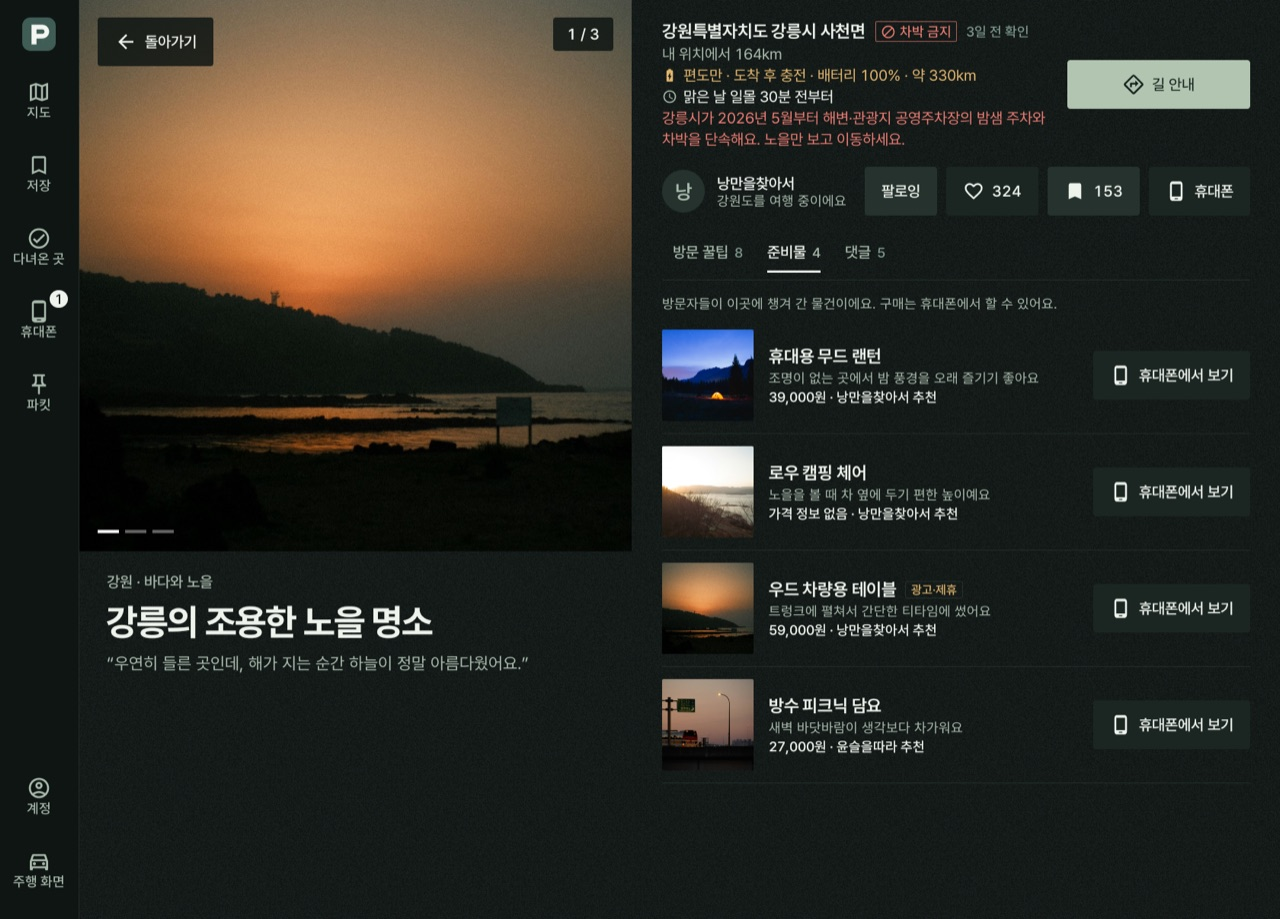
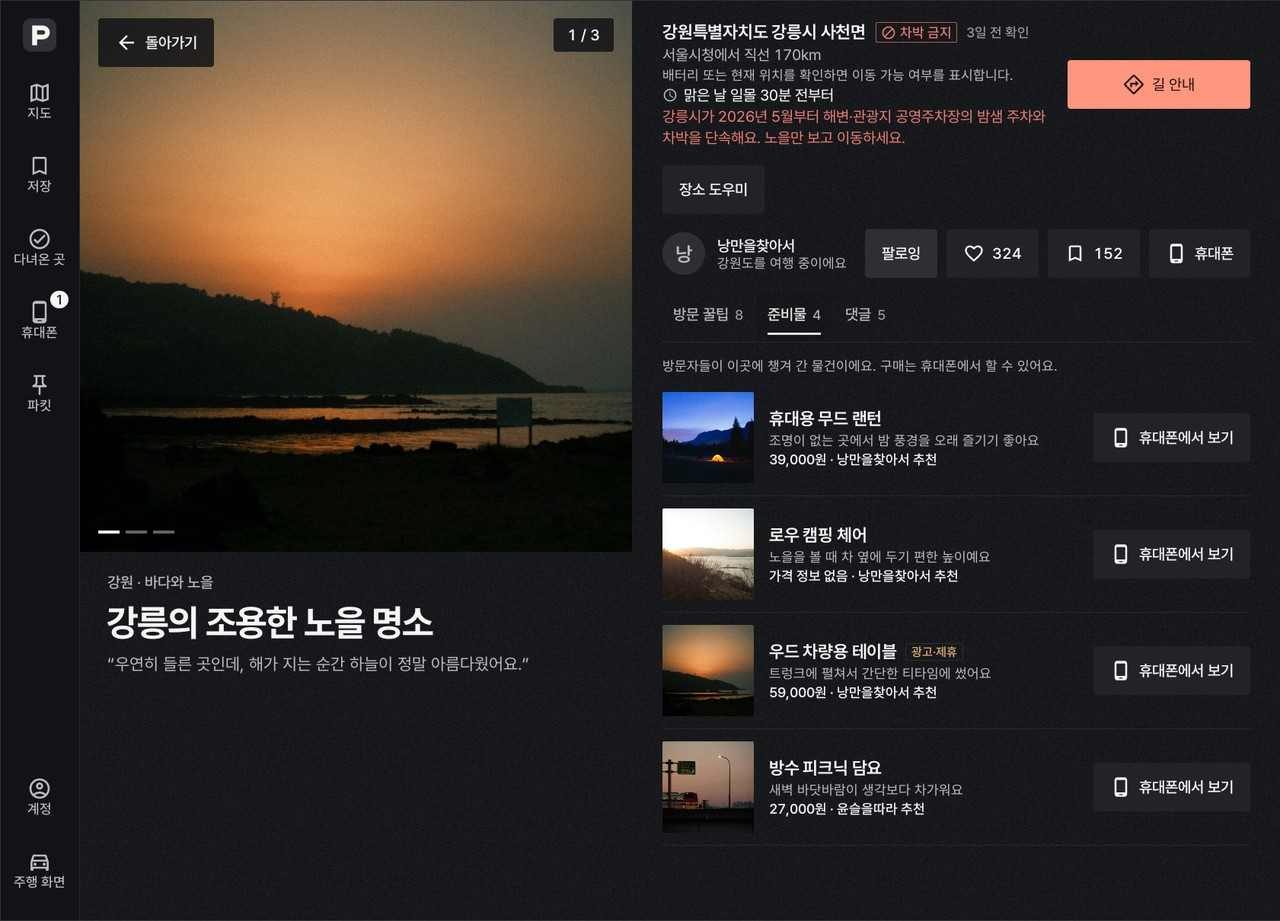
Simplify README and refresh implemented feature screenshots

diff --git a/README.md b/README.md
@@ -1,185 +1,57 @@
-# 현대자동차그룹 차량용 앱 개발 공모전
+# PARK-IT (파킷)
 
-Pleos Connect 차량용 앱을 만들기 위한 팀 저장소입니다. 차박·드라이브 장소를 사진과 꿀팁으로 공유하는 차량 특화 SNS **PARK-IT(파킷)** 을 개발하고 있습니다. 슬로건은 "당신의 경험이 누군가의 목적지가 되는 곳"이며, 코드와 패키지 이름은 개발 초기 가칭인 낭만로드(`com.nangmanroad`)를 그대로 씁니다.
+현대자동차그룹 차량용 앱 개발 공모전 프로젝트. 휴대폰에서 차박·드라이브 장소를 찾고 차량으로 보낸 뒤, 방문한 장소의 사진과 팁을 공유합니다. 차량용 앱은 Pleos Connect에서 실행합니다.
 
-## 화면 업데이트
+## 이번 업데이트
 
-차량 지도 홈은 기존 사진 마커·2열 피드·하단 장소 카드를 그대로 사용합니다. 세이지 그린을 차콜·회색으로 바꾸고, 라이트·다크 모드 모두 코랄 계열로 길 안내와 선택한 장소를 강조했습니다. 이전 차량 캡처는 내장 간략 지도, 최신 캡처는 같은 앱의 네이버 지도 연결 상태입니다.
+- 차량·휴대폰 테마에 차콜과 코랄 적용. 두 앱에서 네이버 도로 지도 표시 확인.
+- 고캠핑 야영장 3곳의 사진 6장, 주차·야간 이용 안내, 출처·조회일 추가.
+- 장소 도우미에서 주차·야간 이용·차박·방문 팁 확인.
+- 같은 목적지의 남은 도로 거리로 배터리 추정 보강.
+- 정차 위치 전송 대기·재시도와 서버 중복 방지. 서버 저장은 SQLite로 이관.
 
-[메인 화면 전후 한 장으로 보기](docs/images/parkit-before-after.jpg) · [계획서 대비 기능 현황과 다음 작업](docs/feature-status.md)
+## 실행 화면
 
-| 이번에 바뀐 요소 | 확인한 내용 | 한 장으로 보기 |
-| --- | --- | --- |
-| 라이트·다크 테마 | 길 안내와 선택한 장소에 코랄 적용 | [배색 전후](docs/images/updates/coral-theme.jpg) |
-| 네이버 지도 실행 | 차량·휴대폰 실제 도로 지도와 사진 마커 표시 | [지도 비교](docs/images/updates/naver-map.jpg) |
-| 공식 장소 사진 | 서울·가평 야영장 3곳에 실제 사진 6장과 주소·출처·조회일 추가 | [난지캠핑장](docs/images/updates/official-camps.jpg) |
-| 장소 도우미 | 두 앱에서 난지캠핑장 주차 답변과 고캠핑 출처 확인 | [도우미 화면](docs/images/updates/place-assistant.jpg) |
-| 경로 기반 배터리 추정 | 같은 목적지의 남은 도로 거리 반영을 구현. 실시간 경로 전환은 시연에서 확인 예정 | [배터리 표시와 계산 조건](docs/images/updates/route-battery.jpg) |
-| 정차 위치 재전송 | 연결 복구 후 다시 보내는 흐름 구현. 서버 중복 방지 테스트 통과 | [파킷 전송 흐름](docs/images/updates/parkit-retry.jpg) |
-| SQLite 저장 | 기존 JSON 이관과 서버 재시작 후 보존 테스트 통과 | [데이터 저장 흐름](docs/images/updates/sqlite-storage.jpg) |
-
-[마지막 장 · 할 일](docs/images/updates/todo.jpg)
+2026-11-12 최신 빌드와 샘플 계정으로 캡처했습니다. 휴대폰 화면은 에뮬레이터의 세로 디스플레이에서 촬영했습니다.
 
 ### 차량용 앱
 
-Pleos Connect Emulator 2.1.0에서 실행한 화면입니다. 사진 마커를 고르면 하단 카드에서 장소와 이동 조건을 확인하고 길 안내를 열 수 있습니다.
+<img src="docs/images/car-naver-dark.png" alt="Pleos 차량용 파킷 지도 홈" width="100%">
 
-<img src="docs/images/car-naver-dark.png" alt="차량 다크 모드에서 네이버 도로 지도와 파킷 사진 그리드가 열린 화면" width="100%">
+[라이트 모드](docs/images/car-naver-light.png) · [난지캠핑장 공식 사진과 정보](docs/images/car-official-place.png) · [장소 도우미](docs/images/car-place-assistant.png)
 
-[라이트 모드](docs/images/car-naver-light.png) · [장소 상세](docs/images/car-naver-detail.png) · [난지캠핑장 공식 사진과 정보](docs/images/car-official-place.png) · [장소 도우미](docs/images/car-place-assistant.png)
+<details>
+<summary>차량 기능별 화면</summary>
+
+| 탐색·방문 | 계정·주행 |
+| --- | --- |
+| [지도 홈과 지역 피드](docs/images/car-map.jpg) | [휴대폰에서 보낸 장소](docs/images/car-from-phone.jpg) |
+| [장소 상세와 방문 꿀팁](docs/images/car-detail-tips.jpg) | [6자리 연결 코드](docs/images/car-pairing.jpg) |
+| [준비물](docs/images/car-detail-items.jpg) | [연결된 계정과 음성 안내 설정](docs/images/car-account.jpg) |
+| [저장한 장소와 일몰 안내](docs/images/car-album.jpg) | [주행 화면 미리보기](docs/images/car-driving.jpg) |
+| [다녀온 곳](docs/images/car-visited.jpg) | |
+
+</details>
 
 ### 휴대폰 앱
 
-최신 휴대폰 APK를 세로 에뮬레이터 화면에서 실행했습니다. **가까운 곳**에서 난지캠핑장 사진을 보고, 장소 상세에서 **차량으로 보내기**와 **장소 도우미**를 열 수 있습니다. 도우미는 주차 안내와 출처를 보여 줍니다.
+| 홈 | 지도 | 장소 상세 | 장소 도우미 |
+| --- | --- | --- | --- |
+| ![휴대폰 홈과 추천 피드](docs/images/phone-home.jpg) | ![네이버 지도와 사진 마커](docs/images/phone-map.jpg) | ![장소 상세와 차량으로 보내기](docs/images/phone-current-detail.jpg) | ![난지캠핑장 주차 답변](docs/images/phone-current-assistant.jpg) |
 
-<table>
-  <tr>
-    <td width="25%"><img src="docs/images/phone-current-home.jpg" alt="휴대폰 홈의 가까운 곳 탭에 표시된 난지캠핑장 사진"></td>
-    <td width="25%"><img src="docs/images/phone-current-map.jpg" alt="휴대폰 다크 모드의 네이버 지도와 사진 마커"></td>
-    <td width="25%"><img src="docs/images/phone-current-detail.jpg" alt="난지캠핑장 상세의 사진과 차량으로 보내기 버튼"></td>
-    <td width="25%"><img src="docs/images/phone-current-assistant.jpg" alt="휴대폰 장소 도우미의 난지캠핑장 주차 답변과 고캠핑 출처"></td>
-  </tr>
-  <tr>
-    <td><b>홈</b> · 가까운 곳</td>
-    <td><b>지도</b> · 사진 마커</td>
-    <td><b>장소 상세</b> · 차량으로 보내기</td>
-    <td><b>장소 도우미</b> · 주차 안내</td>
-  </tr>
-</table>
+<details>
+<summary>휴대폰 기능별 화면</summary>
 
-[앱 사용 순서와 시연 영상 체크리스트](docs/demo.md)
-
-
-## 현재 구현된 기능
-
-| 기능 | 현재 동작 |
+| 장소 탐색·공유 | 계정·차량 |
 | --- | --- |
-| 지도에서 장소 찾기 | 차량·휴대폰에서 사진 마커와 장소 상세를 볼 수 있습니다. 차량은 장소명·지역·작성자 검색을, 휴대폰은 시설 필터를 지원합니다. 네이버 지도 Client ID가 설정된 빌드는 실제 도로 지도를 사용합니다. |
-| 방문 정보 | 차박 가능·금지·현장 확인 상태와 방문자 꿀팁을 표시합니다. 공식 야영장 상세에 고캠핑 사진과 출처를 함께 표시합니다. 확인한 지 90일을 넘긴 차박 정보에는 오래된 정보 표시를 붙입니다. |
-| 장소 도우미 | 휴대폰과 정차 중 차량의 장소 상세에서 주차·야간 이용·차박·방문 팁을 확인합니다. 차량에서는 배터리와 도착 시간도 확인할 수 있습니다. 답변은 장소 안내, 방문자 제보, 차량에서 받은 데이터로 만듭니다. |
-| 차량 연동 | Vehicle SDK의 기어·배터리 정보로 주행 화면을 전환하고 왕복 가능 여부를 추정합니다. NaviHelper로 목적지를 보내고 남은 거리·시간을 받습니다. 음성 서비스가 연결되면 음성 검색과 도착 전 안내를 이용할 수 있습니다. |
-| 파킷과 기기 간 전송 | 6자리 코드로 휴대폰과 차량을 연결합니다. 휴대폰에서 차량으로 장소를 보내거나, 정차 후 “여기, 파킷할까요?”에서 위치와 메모를 휴대폰으로 보내 장소 글을 작성할 수 있습니다. |
-| 데이터 저장 | 개발용 동기화 서버는 계정·게시물·제보·전송 목록을 SQLite의 스냅샷으로 저장합니다. 업로드 사진은 기존 폴더에 둡니다. 휴대폰의 원격 차량 제어 화면은 데모입니다. |
+| [가까운 곳](docs/images/phone-current-home.jpg) | [로그인](docs/images/phone-signin.jpg) |
+| [사진 상세와 방문 기록](docs/images/phone-detail.jpg) | [차량 연결·제어 데모](docs/images/phone-car.jpg) |
+| [방문 꿀팁](docs/images/phone-tips.jpg) | [프로필과 내 장소 지도](docs/images/phone-profile.jpg) |
+| [장소 공유 · 사진 선택](docs/images/phone-share-photo.jpg) | [차량에서 보낸 항목과 알림](docs/images/phone-notifications.jpg) |
+| [장소 공유 · 위치와 공개 범위](docs/images/phone-share-place.jpg) | |
 
-## 팀 기준 버전과 비교
+</details>
 
-앱 변경 전 `e218ee9`와 변경 후 `d3b4f0e`를 비교합니다. 신청서의 사진 지도, 지역 피드, 휴대폰과 차량의 연동 흐름을 그대로 바탕으로 삼았습니다.
-
-| 영역 | 변경 전 · `e218ee9` | 변경 후 · `d3b4f0e` |
-| --- | --- | --- |
-| 화면 | Sage Moon 배색, 사진 지도와 2열 사진 피드 | 차콜·회색과 코랄 배색. 사진 그리드, 하단 카드, “여기, 파킷할까요?” 문구 유지 |
-| 지도 | 네이버 지도 SDK 연동과 키가 없을 때의 간략 지도 | 로컬 설정에서 네이버 지도를 연결해 Pleos 실행 화면에 반영 |
-| 장소 정보 | 샘플 장소와 사용자가 올린 게시물, 방문자 제보 | 고캠핑 출처가 있는 서울·가평 야영장 3곳, 해당 장소 사진, 공식 안내 영역 추가 |
-| 배터리 | 직선거리를 보정해 왕복을 추정. 주행 화면에는 도착 예상 배터리 표시 | 같은 목적지의 남은 도로 경로를 받으면 차량 상세에 반영. 일부 시연 지역의 충전소 후보를 정차 중 상세에서 표시 |
-| 서버 | 변경할 때마다 `state.json` 저장 | 첫 실행에 기존 JSON을 읽고 SQLite에 이관. 사진 폴더와 기존 JSON은 보관 |
-| 정차 위치 | 위치·메모 전송, 휴대폰에서 초안 열기 | 계정별 기기 내 대기 목록, 연결 복구 후 재전송, 서버 중복 방지, 대략적 위치 설정 전달 |
-
-## 다음 검증과 확장
-
-**휴대폰에서 고른 장소를 차량에서 안내하고, 정차 위치를 다시 휴대폰에서 초안으로 여는 흐름**을 한 번에 시연하는 것이 목표입니다. 휴대폰 GPS 주변 검색, 수신·길 안내 상태 표시, 쉬어가기와 같은 계획은 [기능 현황과 시연 계획](docs/feature-status.md)에 이어서 정리했습니다.
-
-| 순서 | 할 일 | 완료 기준 |
-| --- | --- | --- |
-| 1 | **차량·휴대폰 연속 시연.** 같은 계정으로 연결하고 장소를 차량으로 보냅니다. Pleos Virtual Console에서 배터리와 기어를 바꿉니다. | 배터리 조건에 따라 안내가 바뀌고, 주행 화면에는 목적지와 남은 거리·시간, 도착 전 정보가 표시됩니다. |
-| 2 | **전송 복구 시연.** 정차 상태에서 서버 연결을 끊고 파킷을 보낸 뒤 재연결합니다. | 휴대폰에 한 건만 도착하고, 초안에 메모와 위치 공개 설정이 유지됩니다. |
-| 3 | **데이터 범위 확대.** 운영기관 안내로 야간 이용과 차량 진입 조건을 갱신하고, 충전소 조회 API 연동을 검토합니다. | 공식 안내와 제보의 출처를 구분할 수 있고, 실제 운영 상태를 확인한 시각이 표시됩니다. 충전소 경유지 자동 추가는 NaviHelper와 대상 차량에서 별도로 검증합니다. |
-
-데이터 후보는 [한국관광공사 고캠핑 정보](https://www.data.go.kr/data/15101933/openapi.do)와 [한국환경공단 전기자동차 충전소 정보](https://www.data.go.kr/data/15076352/openapi.do)입니다. 차량 기능은 [Vehicle SDK](https://document.pleos.ai/docs/pleos-only/connect-sdk-pleos/Vehicle/intro)와 [NaviHelper SDK](https://document.pleos.ai/en/docs/pleos-only/connect-sdk-pleos/NaviHelper/intro)의 지원 범위를 확인하고, [Pleos Virtual Console](https://document.pleos.ai/en/docs/connect/guide/getting-started/application-development/use-vehicle-emulator)에서 기어와 배터리 조건을 바꿔 검증합니다.
-
-## 휴대폰과 차량 사용 흐름
-
-| 언제 | 화면에서 할 일 | 사용성 확인 기준 |
-| --- | --- | --- |
-| 출발 전 휴대폰 | 사진으로 장소를 고르고, 주차·야간 이용·차박 상태를 확인한 뒤 ‘차량으로 보내기’를 누릅니다. | 사진을 본 뒤 실제 방문 조건과 전송 버튼을 찾을 수 있는지 확인합니다. |
-| 정차 중 차량 | ‘휴대폰에서 보냄’에서 같은 장소를 고르고, 배터리 판정과 확인이 필요한 조건을 본 뒤 ‘길 안내’를 누릅니다. | 장소명을 다시 입력하지 않고 목적지를 찾는지, 추정치와 실제 경로를 구분하는지 봅니다. |
-| 주행 중 차량 | 남은 거리·시간과 도착 전 필요한 정보만 확인합니다. 자세한 시설 정보, 사진, 댓글은 정차 후 봅니다. | 운전 중 긴 목록을 스크롤하거나 휴대폰을 꺼낼 필요가 없는지 확인합니다. |
-| 정차 후 차량 → 휴대폰 | “여기, 파킷할까요?”에서 위치를 보낸 뒤 휴대폰에서 사진과 팁을 추가합니다. | 전송 대기와 완료를 구분하는지, 위치 공개 수준을 알아보고 수정할 수 있는지 확인합니다. |
-
-시연에서는 전송 후 목적지를 찾는 시간, 중복 전송 건수, 배터리 안내를 맞게 이해한 비율을 관찰합니다. [Android for Cars 디자인 가이드](https://developers.google.com/cars/design/design-foundations)
-
-## 이전 버전의 기능별 화면
-
-아래 화면은 2026-11-10에 샘플 계정으로 차량·휴대폰 연동 흐름을 캡처한 기록입니다. 당시 빌드는 내장 간략 지도를 사용했습니다. 차량 이미지는 헤드유닛에서 파킷 앱이 표시되는 영역을 잘라낸 것입니다.
-
-### 차량용 앱
-
-<table>
-  <tr>
-    <td width="50%"><img src="docs/images/car-map.jpg" alt="사진 마커 지도, 지금 갈 수 있는 곳만 토글, 선택한 장소의 세 줄 카드(제목 / 차박 상태·배터리 판정 / 거리·지역·일몰), 지도에 보이는 지역의 피드"></td>
-    <td width="50%"><img src="docs/images/car-detail-tips.jpg" alt="장소 상세의 방문 꿀팁 탭. 확인 필요, 준비하세요 상태 카드"></td>
-  </tr>
-  <tr>
-    <td><b>지도 홈</b> · 사진 마커와 묶음 표시, 분류 필터, 미리보기 카드, 지도에 보이는 지역의 피드, 말로 검색</td>
-    <td><b>장소 상세 · 방문 꿀팁</b> · 엇갈리는 정보는 '확인 필요'로 먼저 보여줌</td>
-  </tr>
-  <tr>
-    <td><img src="docs/images/car-detail-items.jpg" alt="장소 상세의 준비물 탭. 가격, 추천한 사람, 광고·제휴 표시"></td>
-    <td><img src="docs/images/car-album.jpg" alt="내 장소의 저장한 장소 탭. 오늘 해를 보러 간다면 카드와 저장한 사진"></td>
-  </tr>
-  <tr>
-    <td><b>준비물</b> · 방문자들이 챙겨 간 물건과 가격, 광고·제휴 표시, 구매는 휴대폰으로</td>
-    <td><b>내 장소</b> · 저장한 장소, 다녀온 곳, 휴대폰에서 보냄 탭과 오늘 해를 보러 간다면</td>
-  </tr>
-  <tr>
-    <td><img src="docs/images/car-from-phone.jpg" alt="휴대폰에서 보낸 장소 탭과 레일의 배지"></td>
-    <td><img src="docs/images/car-driving.jpg" alt="주행 중 간소화 화면. 다시 듣기와 말하기 버튼, 목적지, 남은 거리와 시간, 도착 시 배터리, 일몰까지 여유, 차박 금지 안내, 도착 전 꿀팁 3개"></td>
-  </tr>
-  <tr>
-    <td><b>휴대폰에서 보냄</b> · 휴대폰의 '차량으로 보내기'가 도착하면 레일에 배지</td>
-    <td><b>주행 중 화면</b> · 기어가 P가 아니면 목적지와 도착 전 꿀팁만 표시, 출발할 때 음성으로 읽어 주고 말로 물어볼 수 있음</td>
-  </tr>
-  <tr>
-    <td><img src="docs/images/car-pairing.jpg" alt="휴대폰 계정과 연결하기 화면의 6자리 코드"></td>
-    <td><img src="docs/images/car-account.jpg" alt="휴대폰과 연결되어 있어요 화면, 파킷 위치를 시·군 중심으로만 보내기와 음성 안내 설정"></td>
-  </tr>
-  <tr>
-    <td><b>계정 연결</b> · 휴대폰에 입력할 6자리 코드(10분마다 새 코드)</td>
-    <td><b>연결됨</b> · 저장·좋아요·팔로우가 휴대폰과 같아짐, 음성 안내 켜기·끄기</td>
-  </tr>
-</table>
-
-### 스마트폰 앱
-
-<table>
-  <tr>
-    <td width="25%"><img src="docs/images/phone-signin.jpg" alt="닉네임과 비밀번호 로그인 화면"></td>
-    <td width="25%"><img src="docs/images/phone-home.jpg" alt="홈 피드의 나를 위한 추천 탭"></td>
-    <td width="25%"><img src="docs/images/phone-map.jpg" alt="지도와 선택한 장소 카드"></td>
-    <td width="25%"><img src="docs/images/phone-detail.jpg" alt="장소 상세 상단 사진 갤러리"></td>
-  </tr>
-  <tr>
-    <td><b>로그인</b></td>
-    <td><b>홈</b> · 나를 위한 추천</td>
-    <td><b>지도</b></td>
-    <td><b>장소 상세</b></td>
-  </tr>
-  <tr>
-    <td><img src="docs/images/phone-tips.jpg" alt="장소 상세의 방문 꿀팁과 차량으로 보내기 버튼"></td>
-    <td><img src="docs/images/phone-share-photo.jpg" alt="장소 공유 1단계 사진 고르기"></td>
-    <td><img src="docs/images/phone-share-place.jpg" alt="장소 공유 2단계. 시·군과 지도 핀, 위치 공개 수준, 차박 가능 여부"></td>
-    <td><img src="docs/images/phone-car.jpg" alt="내 차량 탭의 차량 연결, 콘셉트 안내, 배터리와 도어·창문·온도·공조 사양표"></td>
-  </tr>
-  <tr>
-    <td><b>방문 꿀팁</b> · 차량으로 보내기</td>
-    <td><b>장소 공유 1/3</b> · 사진</td>
-    <td><b>장소 공유 2/3</b> · 위치, 위치 공개 수준, 차박 가능 여부</td>
-    <td><b>내 차량</b> · 차량 연결, 콘셉트 사양표</td>
-  </tr>
-  <tr>
-    <td><img src="docs/images/phone-profile.jpg" alt="마이 화면의 프로필과 내 장소 지도"></td>
-    <td><img src="docs/images/phone-notifications.jpg" alt="알림의 차량에서 보낸 항목"></td>
-    <td></td>
-    <td></td>
-  </tr>
-  <tr>
-    <td><b>마이</b> · 내 장소 지도</td>
-    <td><b>알림</b> · 차량에서 보낸 항목</td>
-    <td></td>
-    <td></td>
-  </tr>
-</table>
-
-화면이 바뀌면 스크린샷도 같이 바꿉니다. 같은 화면을 띄운 뒤 `scripts/capture-screenshot.sh <기기> <파일 이름> <car|car-full|phone>`을 실행하면 `docs/images/`의 같은 이름 파일이 바뀝니다. 차량 앱 창 자르기와 크기 조절까지 스크립트가 하고, macOS에서만 동작합니다. 자세한 내용은 [외장 SSD 개발 환경](docs/local-environment-mac.md#readme-스크린샷)을 참고하세요.
 
 ## 시작하기
 
